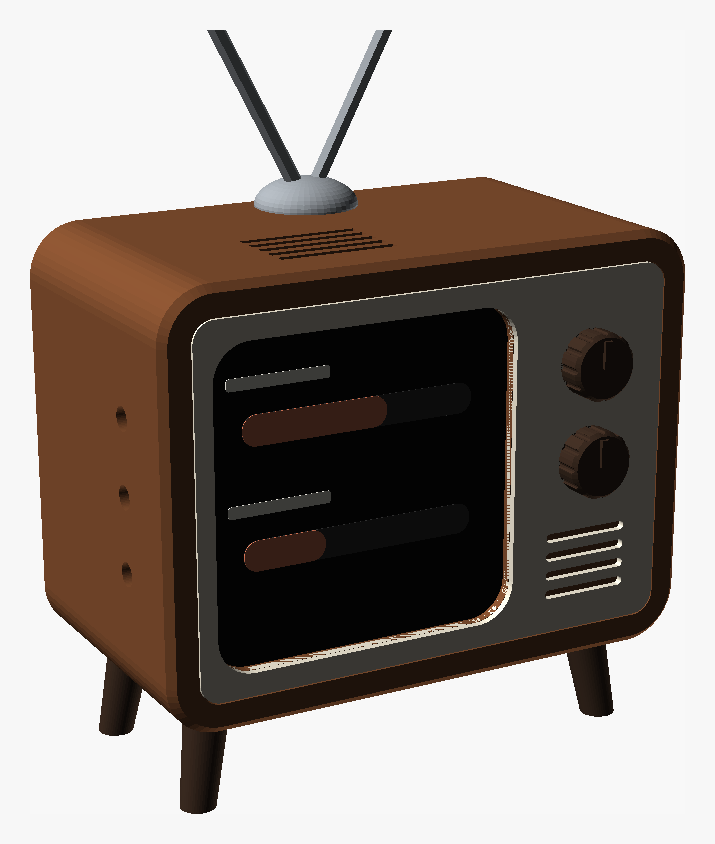
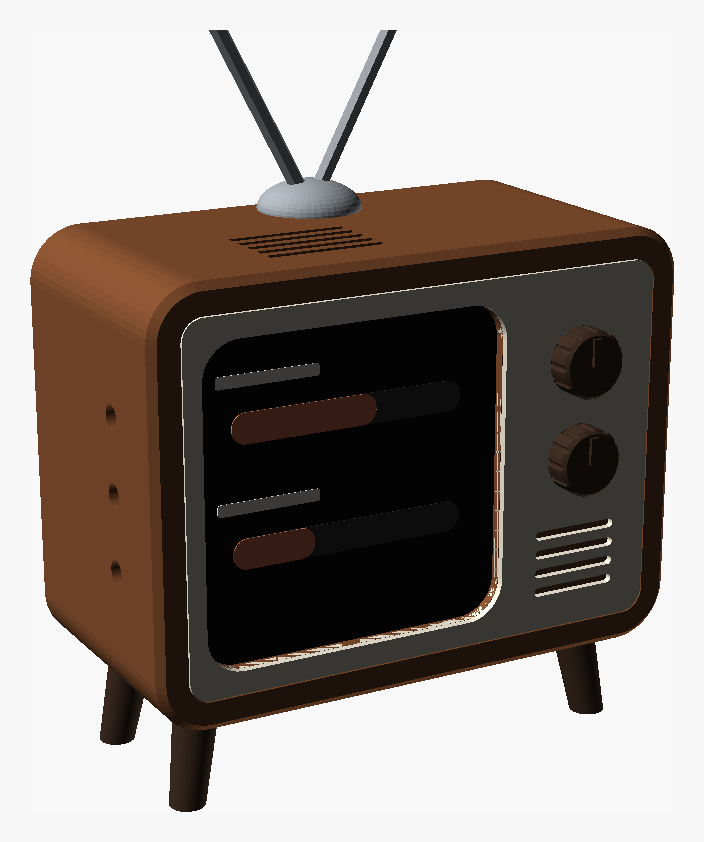
Retro-TV dock: 38 mm deep, cable lane sized from the real cable
Photos of the braided cable bent round the device show its loop sticks
out ~7-9 mm behind the device's back, so the lane drops from 16 to 12 mm
(body depth 42 -> 38 mm). The speaker grille turned out to be on the
device's back, so its sound leaves through the back-cover vents; the top
slots are now documented as decorative.

Claude-Session: https://claude.ai/code/session_01DCgFXNHjuUnVVy5jf825vG

diff --git a/enclosure/retro_tv/README.md b/enclosure/retro_tv/README.md
@@ -10,20 +10,21 @@ rabbit-ear antennas on top.
 |---|---|
 | ![front](preview_front.png) | ![left](preview_left.png) |
 
-**The device is mounted a quarter turn:** USB-C faces right, the buttons
-left, and the speaker up.
+**The device is mounted a quarter turn:** USB-C faces right and the buttons
+face left.
 - The right-angle plug hides behind the control panel.
 - The three buttons are pressed through the left side with printed plungers.
-- Slots in the TV's top let the speaker sound out.
+- The device's speaker sits on its back, so the sound comes out through the
+  vents in the upper half of the back cover. The slots on top are decoration.
 - The device's motion sensor (IMU) turns the picture upright by itself. Touch
   needs no change, since a tap anywhere just switches screens.
 - The cable leaves the plug heading back, curves round behind the device,
   runs along its back and leaves through the back cover's bottom corner on
   the button side (bottom right seen from behind). The space behind the
-  device (`cable_lane`, 16 mm) leaves room for a ~12 mm bend radius, because
-  braided cables are too stiff to fold flat against the device's back.
+  device (`cable_lane`, 12 mm) fits the loop the stiff braided cable makes
+  going round onto the device's back (~7–9 mm), plus some slack.
 
-Size: 75 × 56 × 42 mm body. On its legs it stands about 70 mm tall, or about
+Size: 75 × 56 × 38 mm body. On its legs it stands about 70 mm tall, or about
 104 mm to the antenna tips. Run `openscad -D 'part="dims"' -o x.stl retro_tv.scad`
 to print the numbers after you change parameters.
 
@@ -32,8 +33,7 @@ press F5 to preview, and use Window → Customizer to change the numbers.
 
 ## Measurements used
 
-All measurements are with the device as mounted (USB-C right, buttons left,
-speaker up):
+All measurements are with the device as mounted (USB-C right, buttons left):
 
 | Parameter | Value | Note |
 |---|---|---|
@@ -74,7 +74,7 @@ Matte PLA, 0.16–0.2 mm layers, 3–4 walls, 15–20 % gyroid.
 1. Glue the faceplate in, then pin and glue the knobs.
 2. Drop the three plungers into the left-side holes from the inside.
 3. Slide the device in from the back: screen first, USB-C to the right,
-   buttons to the left, speaker up.
+   buttons to the left.
 4. Plug in the right-angle USB-C. Curve the cable round behind the device,
    along its back, to the bottom corner on the button side, and lay it into
    the notch.
